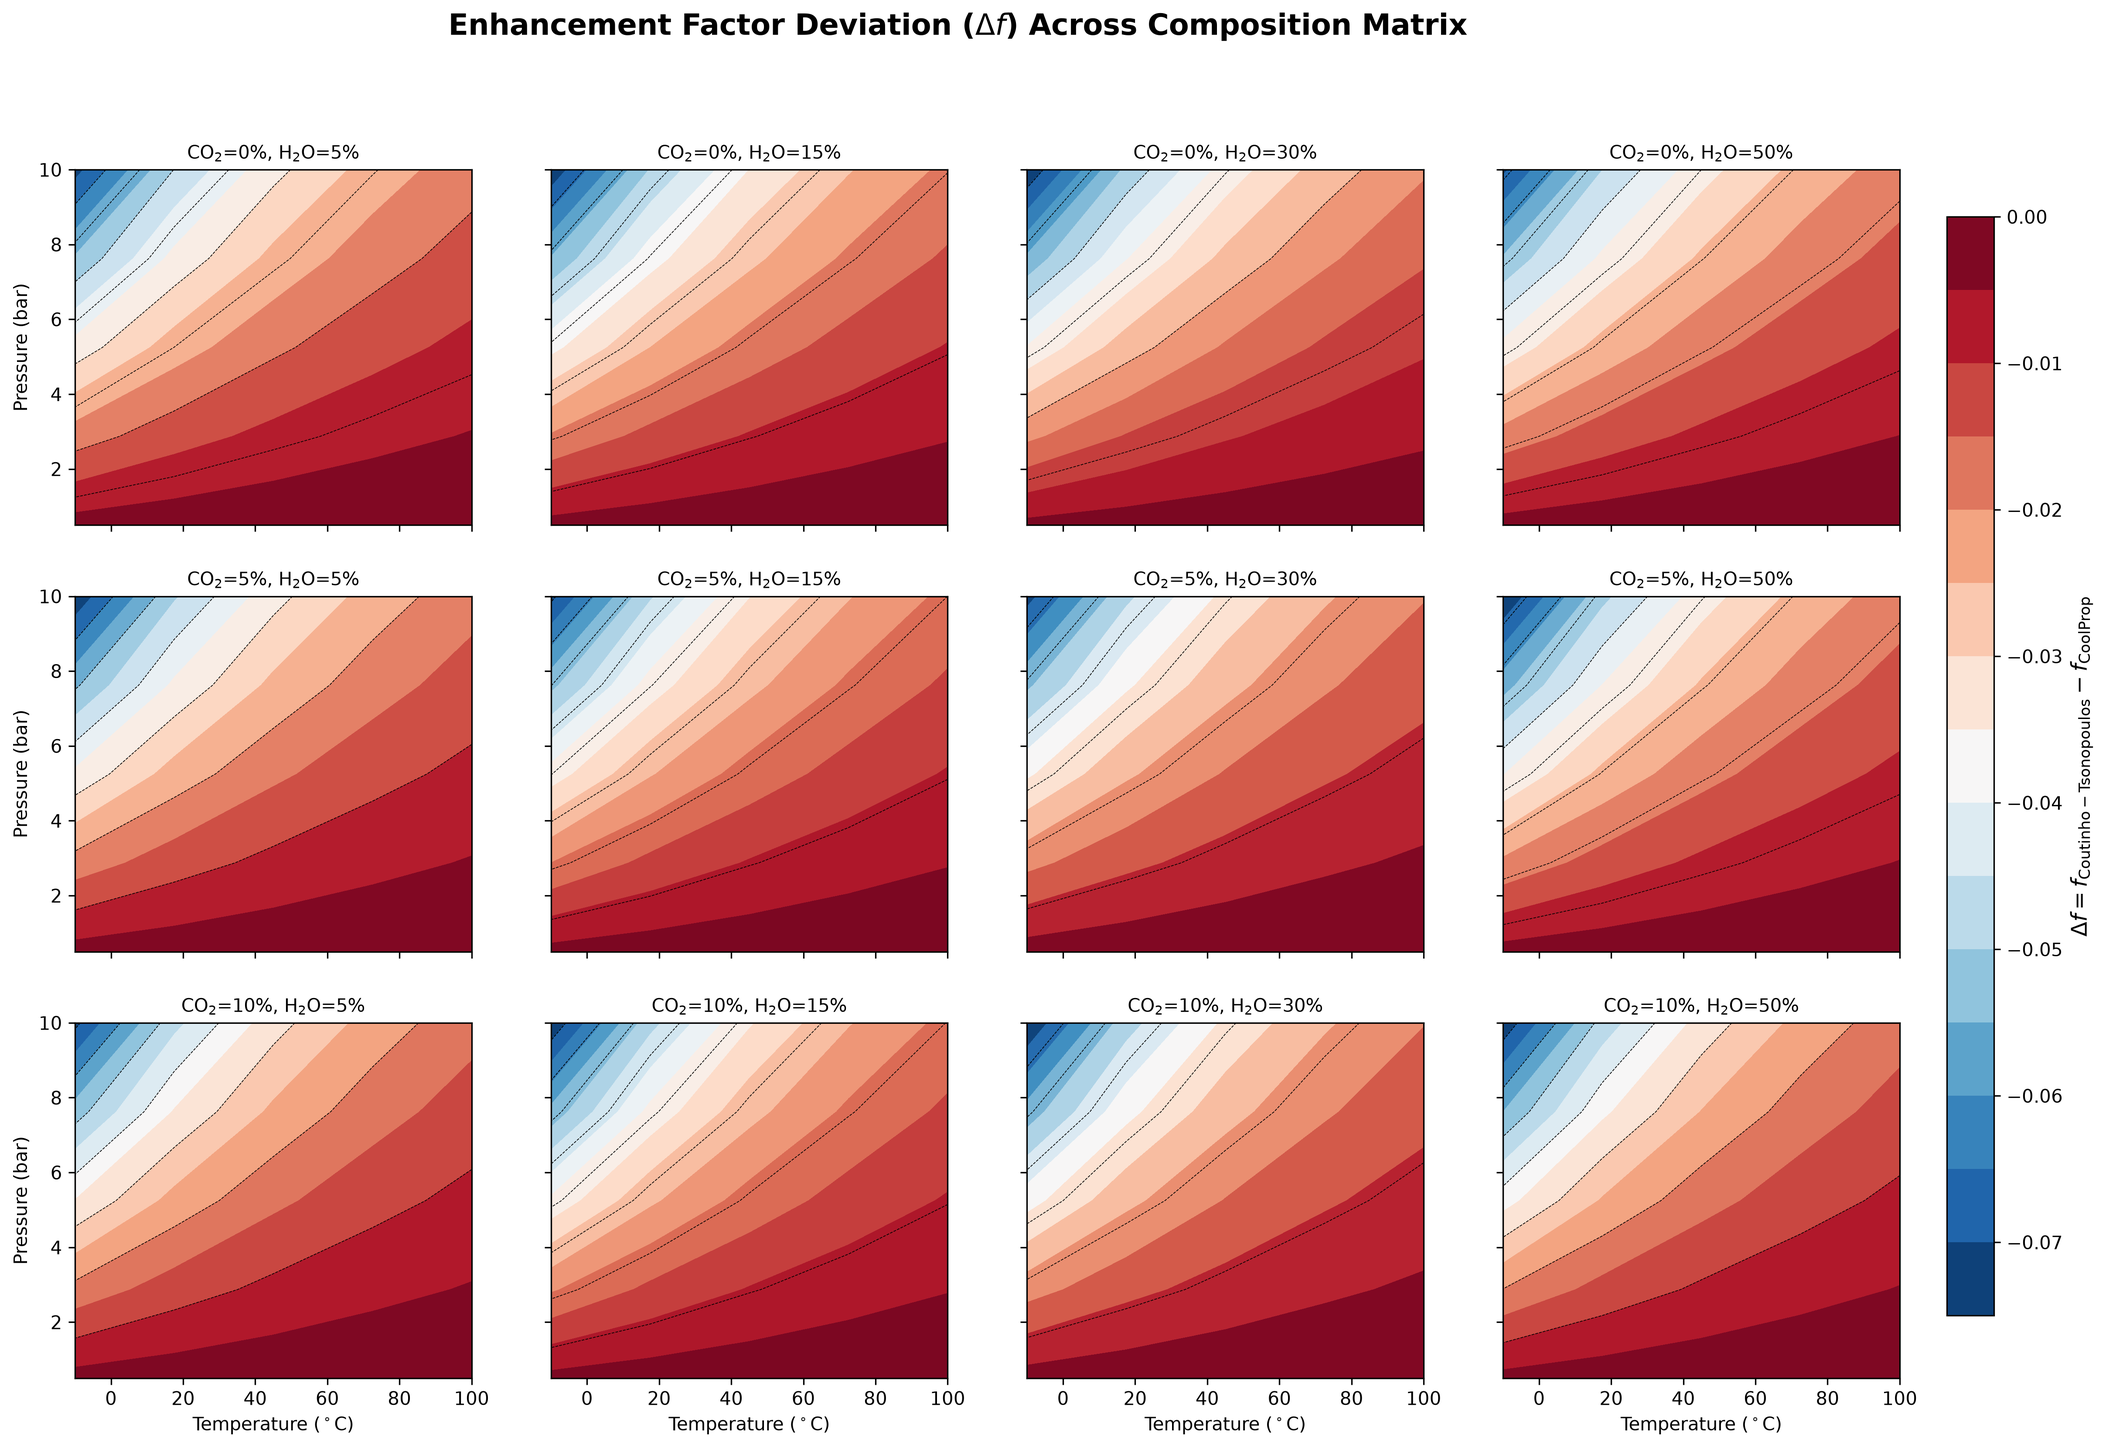
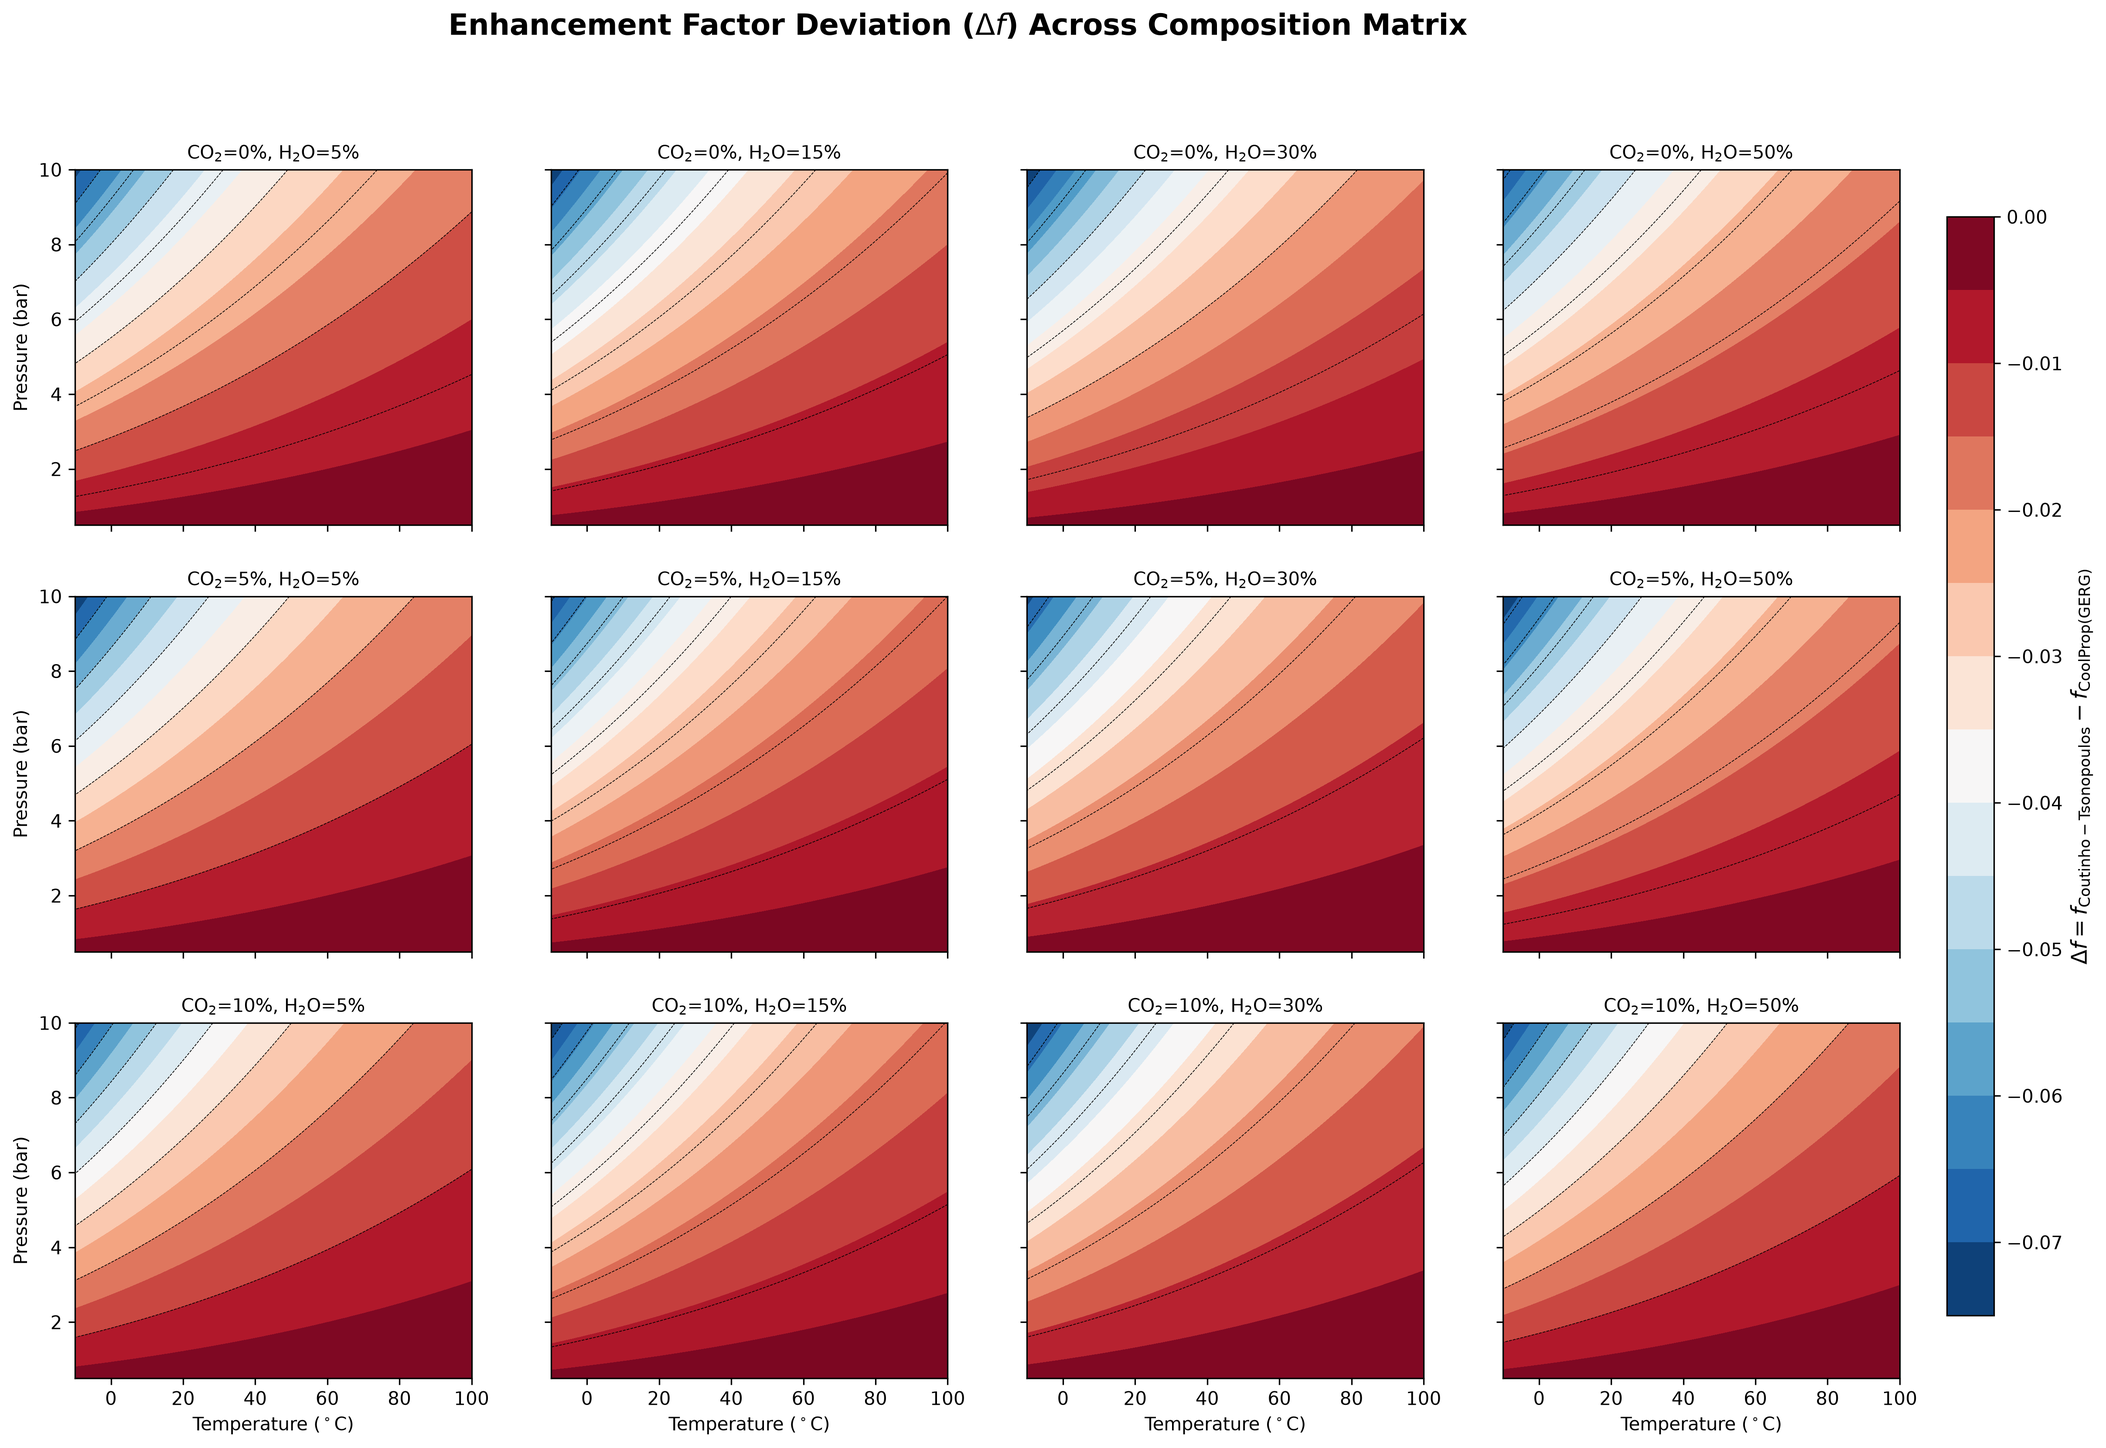
ok, we will use GERG for the enhancement factor

diff --git a/benchmark_enhancement.py b/benchmark_enhancement.py
@@ -3,7 +3,7 @@ import numpy as np
 import matplotlib.pyplot as plt
 import CoolProp.CoolProp as CP
 
-# 1. Import gas critical data from uploaded gas_data.py
+# 1. Import gas critical data
 try:
     from peng_utils import memoize
     from gas_data import gas_data
@@ -11,7 +11,7 @@ except ImportError:
     print("Error: Could not import gas_data.py. Ensure gas_data.py is in the working directory.")
     sys.exit(1)
 
-# Import Sonntag pure water vapor pressure function from uploaded sonntag_2.py
+# Import Sonntag pure water vapor pressure function
 try:
     from sonntag_2 import sonntag_vapor_pressure
 except ImportError:
@@ -21,19 +21,19 @@ except ImportError:
         ln_P = A1 / T_K + A2 + A3 * T_K + A4 * T_K**2 + A5 * np.log(T_K)
         return np.exp(ln_P)
 
-# --- Universal Gas Constant & Constants ---
+sonntag_vapor_pressure_vec = np.vectorize(sonntag_vapor_pressure)
+
+# Universal Gas Constant & Constants
 R = 83.144626  # bar cm^3 / (mol K)
+v_l = 18.07    # Liquid water molar volume (cm^3/mol)
+name_map = {'H2O': 'Water', 'CO2': 'CO2', 'N2': 'Nitrogen', 'O2': 'Oxygen'}
 
 # ==============================================================================
 # 2. COUTINHO - TSONOPOULOS MODEL IMPLEMENTATION
+#    PRE-CALCULATED VIRIAL TABLES (Executed ONCE across 1D Temperature vector)
 # ==============================================================================
 
-@memoize
 def coutinho_b(species):
-    """
-    Computes component co-volume b_i (cm^3/mol) using Peng-Robinson definition:
-    b_i = 0.07780 * R * Tc / Pc
-    """
     Tc = gas_data[species]['Tc']
     Pc = gas_data[species]['Pc']  # bar
     return 0.07780 * (R * Tc / Pc)
@@ -44,117 +44,92 @@ def coutinho_k_ij(b1, b2):
     term = 2.0 * np.sqrt(b1 * b2) / (b1 + b2)
     return 1.0 - 0.885 * (term ** -0.036)
 
-@memoize
-def tsonopoulos_B(T, Tc, Pc, omega):
-    """Calculates pure second virial coefficient B(T) [cm^3/mol] via Tsonopoulos (1974)."""
-    Tr = T / Tc
+def tsonopoulos_B_1D(T_vec_K, Tc, Pc, omega):
+    """Calculates 1D array of pure B(T) [cm^3/mol] over 1D temperature vector."""
+    Tr = T_vec_K / Tc
     f0 = 0.1445 - 0.330 / Tr - 0.1385 / (Tr**2) - 0.0121 / (Tr**3) - 0.00060 / (Tr**8)
     f1 = 0.0637 + 0.331 / (Tr**2) - 0.423 / (Tr**3) - 0.008 / (Tr**8)
     return (R * Tc / Pc) * (f0 + omega * f1)
 
-@memoize
-def cross_virial_B_gw(T, species1, species2):
-    """Calculates cross-second virial coefficient B_12(T) using Coutinho k_ij."""
-    p1, p2 = gas_data[species1], gas_data[species2]
-    
-    b1 = coutinho_b(species1)
-    b2 = coutinho_b(species2)
-    k_ij = coutinho_k_ij(b1, b2)
-    
-    Tc_12 = np.sqrt(p1['Tc'] * p2['Tc']) * (1.0 - k_ij)
-    Vc1 = (R * p1['Tc'] / p1['Pc']) * 0.29
-    Vc2 = (R * p2['Tc'] / p2['Pc']) * 0.29
-    Vc_12 = ((Vc1**(1/3) + Vc2**(1/3)) / 2.0)**3
-    omega_12 = 0.5 * (p1['omega'] + p2['omega'])
-    Pc_12 = (0.29 * R * Tc_12) / Vc_12
-    
-    return tsonopoulos_B(T, Tc_12, Pc_12, omega_12)
+def build_virial_tables_1D(T_vec_K, species_list):
+    """
+    Pre-computes B_12(T) arrays for all species pairs on 1D T_vec_K.
+    Robust against CoolProp subcooled water melting line exceptions (T < 273.15 K).
+    """
+    B_coutinho_table = {}
+    B_gerg_table = {}
 
-def f_enhancement_coutinho(T_K, P_bar, y_dict):
+    for i, sp1 in enumerate(species_list):
+        for j, sp2 in enumerate(species_list[i:], i):
+            n1, n2 = name_map.get(sp1, sp1), name_map.get(sp2, sp2)
+            
+            # --- 1. Coutinho - Tsonopoulos Virial ---
+            if sp1 == sp2:
+                B_cout = tsonopoulos_B_1D(T_vec_K, gas_data[sp1]['Tc'], gas_data[sp1]['Pc'], gas_data[sp1]['omega'])
+            else:
+                p1, p2 = gas_data[sp1], gas_data[sp2]
+                b1, b2 = coutinho_b(sp1), coutinho_b(sp2)
+                k_ij = coutinho_k_ij(b1, b2)
+                Tc_12 = np.sqrt(p1['Tc'] * p2['Tc']) * (1.0 - k_ij)
+                Vc1 = (R * p1['Tc'] / p1['Pc']) * 0.29
+                Vc2 = (R * p2['Tc'] / p2['Pc']) * 0.29
+                Vc_12 = ((Vc1**(1/3) + Vc2**(1/3)) / 2.0)**3
+                omega_12 = 0.5 * (p1['omega'] + p2['omega'])
+                Pc_12 = (0.29 * R * Tc_12) / Vc_12
+                B_cout = tsonopoulos_B_1D(T_vec_K, Tc_12, Pc_12, omega_12)
+
+            B_coutinho_table[(sp1, sp2)] = B_cout
+            B_coutinho_table[(sp2, sp1)] = B_cout
+
+            # --- 2. GERG-2008 Virial (CoolProp) with Subcooled Exception Handling ---
+            B_gerg = np.zeros_like(T_vec_K)
+            for k, T_scalar in enumerate(T_vec_K):
+                try:
+                    if sp1 == sp2:
+                        B_gerg[k] = CP.PropsSI('Bvirial', 'T', T_scalar, 'P', 1e5, n1) * 1e6
+                    else:
+                        mix_str = f"HEOS::{n1}[0.5]&{n2}[0.5]"
+                        B_gerg[k] = CP.PropsSI('Bvirial', 'T', T_scalar, 'P', 1e5, mix_str) * 1e6
+                except ValueError:
+                    # Fallback to Tsonopoulos correlation for subcooled water state (T < 273.15 K)
+                    B_gerg[k] = B_cout[k]
+
+            B_gerg_table[(sp1, sp2)] = B_gerg
+            B_gerg_table[(sp2, sp1)] = B_gerg
+
+    return B_coutinho_table, B_gerg_table
+    
+# ==============================================================================
+# 3. FAST 2D MATRIX EVALUATION VIA BROADCASTING
+# ==============================================================================
+
+def compute_enhancement_grid(T_vec_K, P_vec_bar, y_dict, B_table):
     """
-    Computes enhancement factor f(T, P) using Coutinho-Tsonopoulos Virial Model.
-    y_dict: mole fractions of all components including H2O.
+    Evaluates full (P x T) 2D matrix using 1D virial table and 2D pressure broadcasting.
     """
-    v_l = 18.07  # Molar volume of liquid water (cm^3/mol)
     y_w = y_dict.get('H2O', 0.0)
-    
-    # Extract dry gas composition normalized
     dry_dict = {k: v / (1.0 - y_w) for k, v in y_dict.items() if k != 'H2O'}
-    
-    # 1. Mixture dry-gas B_gg
-    B_gg = 0.0
+
+    # 1. Compute 1D B_gg(T) and B_gw(T) vectors across temperature axis
+    B_gg_1D = np.zeros_like(T_vec_K)
     for g1, y1 in dry_dict.items():
         for g2, y2 in dry_dict.items():
-            if g1 == g2:
-                B_12 = tsonopoulos_B(T_K, gas_data[g1]['Tc'], gas_data[g1]['Pc'], gas_data[g1]['omega'])
-            else:
-                B_12 = cross_virial_B_gw(T_K, g1, g2)
-            B_gg += y1 * y2 * B_12
+            B_gg_1D += y1 * y2 * B_table[(g1, g2)]
 
-    # 2. Cross-virial B_gw (Dry Matrix <-> H2O)
-    B_gw = 0.0
+    B_gw_1D = np.zeros_like(T_vec_K)
     for g, y_g in dry_dict.items():
-        B_gw += y_g * cross_virial_B_gw(T_K, g, 'H2O')
-        
-    # 3. Logarithm of enhancement factor ln(f)
-    term1 = ((1.0 - y_w) * P_bar) / (R * T_K)
-    ln_f = term1 * (B_gg - 2.0 * B_gw + v_l)
-    return np.exp(ln_f)
+        B_gw_1D += y_g * B_table[(g, 'H2O')]
 
-# ==============================================================================
-# 3. COOLPROP MODEL IMPLEMENTATION
-# ==============================================================================
-def f_enhancement_coolprop(T_K, P_bar, y_dict):
-    return f_enhancement_coolprop_gerg_virial(T_K, P_bar, y_dict)
-    
-def f_enhancement_coolprop_gerg_virial(T_K, P_bar, y_dict):
-    """
-    Computes f(T, P) using exact GERG-2008 Virial Coefficients extracted from CoolProp.
-    Bypasses phase-flash instability completely.
-    """
-    y_w = y_dict.get('H2O', 0.0)
-    if y_w <= 0:
-        return 1.0
+    # 2. 1D Temperature term
+    bracket_term_1D = (B_gg_1D - 2.0 * B_gw_1D + v_l)  # shape (N_T,)
 
-    v_l = 18.07  # Liquid water molar volume (cm^3/mol)
-    dry_dict = {k: v / (1.0 - y_w) for k, v in y_dict.items() if k != 'H2O'}
-    
-    name_map = {'H2O': 'Water', 'CO2': 'CO2', 'N2': 'Nitrogen', 'O2': 'Oxygen'}
-    
-    def get_gerg_B(sp1, sp2, T):
-        """Extracts B_12(T) in cm^3/mol from CoolProp HEOS/GERG2008."""
-        n1, n2 = name_map.get(sp1, sp1), name_map.get(sp2, sp2)
-        if sp1 == sp2:
-            # Pure second virial B(T) in m^3/mol -> convert to cm^3/mol
-            B_m3 = CP.PropsSI('Bvirial', 'T', T, 'P', 1e5, n1)
-            return B_m3 * 1e6
-        else:
-            # Cross second virial B_12(T) using HEOS binary mixture
-            mix_str = f"HEOS::{n1}[0.5]&{n2}[0.5]"
-            B_m3 = CP.PropsSI('Bvirial', 'T', T, 'P', 1e5, mix_str)
-            return B_m3 * 1e6
+    # 3. Broadcast 1D Pressure vector (N_P, 1) against 1D Temperature terms (1, N_T)
+    P_col = P_vec_bar[:, np.newaxis]   # shape (N_P, 1)
+    T_row = T_vec_K[np.newaxis, :]     # shape (1, N_T)
 
-    try:
-        # 1. GERG Dry Gas Virial B_gg
-        B_gg = 0.0
-        for g1, y1 in dry_dict.items():
-            for g2, y2 in dry_dict.items():
-                B_12 = get_gerg_B(g1, g2, T_K)
-                B_gg += y1 * y2 * B_12
+    ln_f_grid = ((1.0 - y_w) * P_col / (R * T_row)) * bracket_term_1D  # shape (N_P, N_T)
+    return np.exp(ln_f_grid)
 
-        # 2. GERG Cross Virial B_gw (Dry Gas Matrix <-> Water)
-        B_gw = 0.0
-        for g, y_g in dry_dict.items():
-            B_gw += y_g * get_gerg_B(g, 'H2O', T_K)
-
-        # 3. Enhancement Factor
-        term1 = ((1.0 - y_w) * P_bar) / (R * T_K)
-        ln_f = term1 * (B_gg - 2.0 * B_gw + v_l)
-        return np.exp(ln_f)
-        
-    except Exception:
-        return np.nan
-        
 # ==============================================================================
 # 4. BENCHMARKING & PLOTTING ROUTINES
 # ==============================================================================
@@ -167,48 +142,46 @@ def generate_flue_gas_composition(y_co2, y_h2o, o2_ratio=0.03):
     return {'H2O': y_h2o, 'CO2': y_co2, 'O2': y_o2, 'N2': y_n2}
 
 def run_benchmarking():
-    # Grid Setup
-    T_C_vec = np.linspace(-10, 100, 5)       # Temperature -10 C to 100 C, 45 iter
-    P_bar_vec = np.linspace(0.5, 10, 5)      # Pressure 0.5 bar to 10 bar, 45 iter
-    T_grid, P_grid = np.meshgrid(T_C_vec, P_bar_vec)
+    # 1D Grid Vectors
+    T_C_vec = np.linspace(-10, 100, 45)       # 45 temperature points
+    P_bar_vec = np.linspace(0.5, 10, 45)      # 45 pressure points
+    T_vec_K = T_C_vec + 273.15
+
+    # Build 2D meshgrid coordinates for contour plotting
+    T_grid_C, P_grid = np.meshgrid(T_C_vec, P_bar_vec)
+
+    # Pre-compute all virials once for species list
+    all_species = ['H2O', 'CO2', 'N2', 'O2']
+    print("Pre-computing 1D Virial Tables across temperature vector...")
+    B_coutinho_table, B_gerg_table = build_virial_tables_1D(T_vec_K, all_species)
 
     # Parametric sweeps for CO2 and H2O contents
     co2_contents = [0.00, 0.05, 0.10]         # 0%, 5%, 10% CO2
     h2o_contents = [0.05, 0.15, 0.30, 0.50]   # 5%, 15%, 30%, 50% H2O
 
-    print("Running benchmarking simulations across T, P, CO2, and H2O grids...")
+    print("Running matrix calculations...")
 
-    # Figure 1: Multi-panel Contour Plot of Delta f = f_Coutinho - f_CoolProp
     fig, axes = plt.subplots(len(co2_contents), len(h2o_contents), 
                              figsize=(18, 12), sharex=True, sharey=True)
     
-    delta_max_overall = 0.0
+    ratio_pct_max_overall = 0.0
 
     for i, y_co2 in enumerate(co2_contents):
-        print(f"CO2: {y_co2}")
         for j, y_h2o in enumerate(h2o_contents):
-            print(f"  H2O: {y_h2o}")
             ax = axes[i, j]
             y_dict = generate_flue_gas_composition(y_co2, y_h2o)
             
-            f_coutinho = np.zeros_like(T_grid)
-            f_coolprop = np.zeros_like(T_grid)
+            # Fast 2D matrix calculation via broadcasting
+            f_coutinho = compute_enhancement_grid(T_vec_K, P_bar_vec, y_dict, B_coutinho_table)
+            f_coolprop = compute_enhancement_grid(T_vec_K, P_bar_vec, y_dict, B_gerg_table)
             
-            for r in range(T_grid.shape[0]):
-                for c in range(T_grid.shape[1]):
-                    T_K = T_grid[r, c] + 273.15
-                    P_bar = P_grid[r, c]
-                    f_coutinho[r, c] = f_enhancement_coutinho(T_K, P_bar, y_dict)
-                    f_coolprop[r, c] = f_enhancement_coolprop(T_K, P_bar, y_dict)
+            # Percentage Ratio: (f_Coutinho / f_CoolProp - 1) * 100 %
+            pct_ratio = ((f_coutinho / f_coolprop) - 1.0) * 100.0
+            ratio_pct_max_overall = max(ratio_pct_max_overall, np.nanmax(np.abs(pct_ratio)))
             
-            # Difference in enhancement factor: Delta f = f_Coutinho - f_CoolProp
-            delta_f = f_coutinho - f_coolprop
-            print(f"    {f_coutinho=}\n    {f_coolprop=}")
-            delta_max_overall = max(delta_max_overall, np.nanmax(np.abs(delta_f)))
-            
-            # Contour plot
-            cp_plot = ax.contourf(T_grid, P_grid, delta_f, levels=15, cmap='RdBu_r')
-            ax.contour(T_grid, P_grid, delta_f, levels=8, colors='k', linewidths=0.4)
+            # Contour plot for percentage ratio
+            cp_plot = ax.contourf(T_grid_C, P_grid, pct_ratio, levels=15, cmap='RdBu_r')
+            ax.contour(T_grid_C, P_grid, pct_ratio, levels=8, colors='k', linewidths=0.4)
             
             ax.set_title(rf"$\mathrm{{CO_2}}$={y_co2*100:.0f}%, $\mathrm{{H_2O}}$={y_h2o*100:.0f}%", fontsize=10)
             if i == len(co2_contents) - 1:
@@ -219,23 +192,25 @@ def run_benchmarking():
     fig.subplots_adjust(right=0.9)
     cbar_ax = fig.add_axes([0.92, 0.15, 0.02, 0.7])
     cbar = fig.colorbar(cp_plot, cax=cbar_ax)
-    cbar.set_label(r"$\Delta f = f_{\mathrm{Coutinho-Tsonopoulos}} - f_{\mathrm{CoolProp}}$", fontsize=12)
-    fig.suptitle(r"Enhancement Factor Deviation ($\Delta f$) Across Composition Matrix", fontsize=16, fontweight='bold')
-    plt.savefig("enhancement_factor_contour_matrix.png", dpi=300, bbox_inches='tight')
+    cbar.set_label(r"Relative Deviation $\left(\frac{f_{\mathrm{Coutinho}}}{f_{\mathrm{GERG}}} - 1\right) \times 100$ (%)", fontsize=12)
+    fig.suptitle(r"Enhancement Factor Relative Deviation (%) Across Composition Matrix", fontsize=16, fontweight='bold')
+    plt.savefig("enhancement_factor_contour_matrix_pct.png", dpi=300, bbox_inches='tight')
     plt.show()
 
     # Figure 2: Complementary 1D Cross-Section Plot at P = 5 bar
     plt.figure(figsize=(10, 6))
-    P_fixed = 5.0  # bar
+    P_fixed_vec = np.array([5.0])  # Single 5 bar slice
+
     for y_h2o in [0.05, 0.15, 0.30, 0.50]:
         y_dict = generate_flue_gas_composition(y_co2=0.08, y_h2o=y_h2o)
-        f_cout_line = [f_enhancement_coutinho(tc + 273.15, P_fixed, y_dict) for tc in T_C_vec]
-        f_cp_line = [f_enhancement_coolprop(tc + 273.15, P_fixed, y_dict) for tc in T_C_vec]
+        
+        f_cout_line = compute_enhancement_grid(T_vec_K, P_fixed_vec, y_dict, B_coutinho_table)[0]
+        f_cp_line = compute_enhancement_grid(T_vec_K, P_fixed_vec, y_dict, B_gerg_table)[0]
         
         plt.plot(T_C_vec, f_cout_line, label=rf"Coutinho ($\mathrm{{H_2O}}$={y_h2o*100:.0f}%)", linestyle='--')
-        plt.plot(T_C_vec, f_cp_line, label=rf"CoolProp ($\mathrm{{H_2O}}$={y_h2o*100:.0f}%)", linestyle='-')
+        plt.plot(T_C_vec, f_cp_line, label=rf"CoolProp GERG ($\mathrm{{H_2O}}$={y_h2o*100:.0f}%)", linestyle='-')
 
-    plt.title(rf"Enhancement Factor vs. Temperature at P = {P_fixed} bar ($\mathrm{{CO_2}}$ = 8%)", fontsize=12, fontweight='bold')
+    plt.title(r"Enhancement Factor vs. Temperature at P = 5 bar ($\mathrm{CO_2}$ = 8%)", fontsize=12, fontweight='bold')
     plt.xlabel(r"Temperature ($^\circ$C)", fontsize=11)
     plt.ylabel(r"Enhancement Factor $f(T, P)$", fontsize=11)
     plt.legend(bbox_to_anchor=(1.02, 1), loc='upper left')
@@ -243,7 +218,7 @@ def run_benchmarking():
     plt.savefig("enhancement_factor_1D_cross_section.png", dpi=300, bbox_inches='tight')
     plt.show()
 
-    print(rf"Benchmarking completed. Maximum absolute deviation: {delta_max_overall:.6f}")
+    print(rf"Benchmarking completed. Maximum relative deviation: {ratio_pct_max_overall:.4f}%")
 
 if __name__ == '__main__':
     run_benchmarking()
